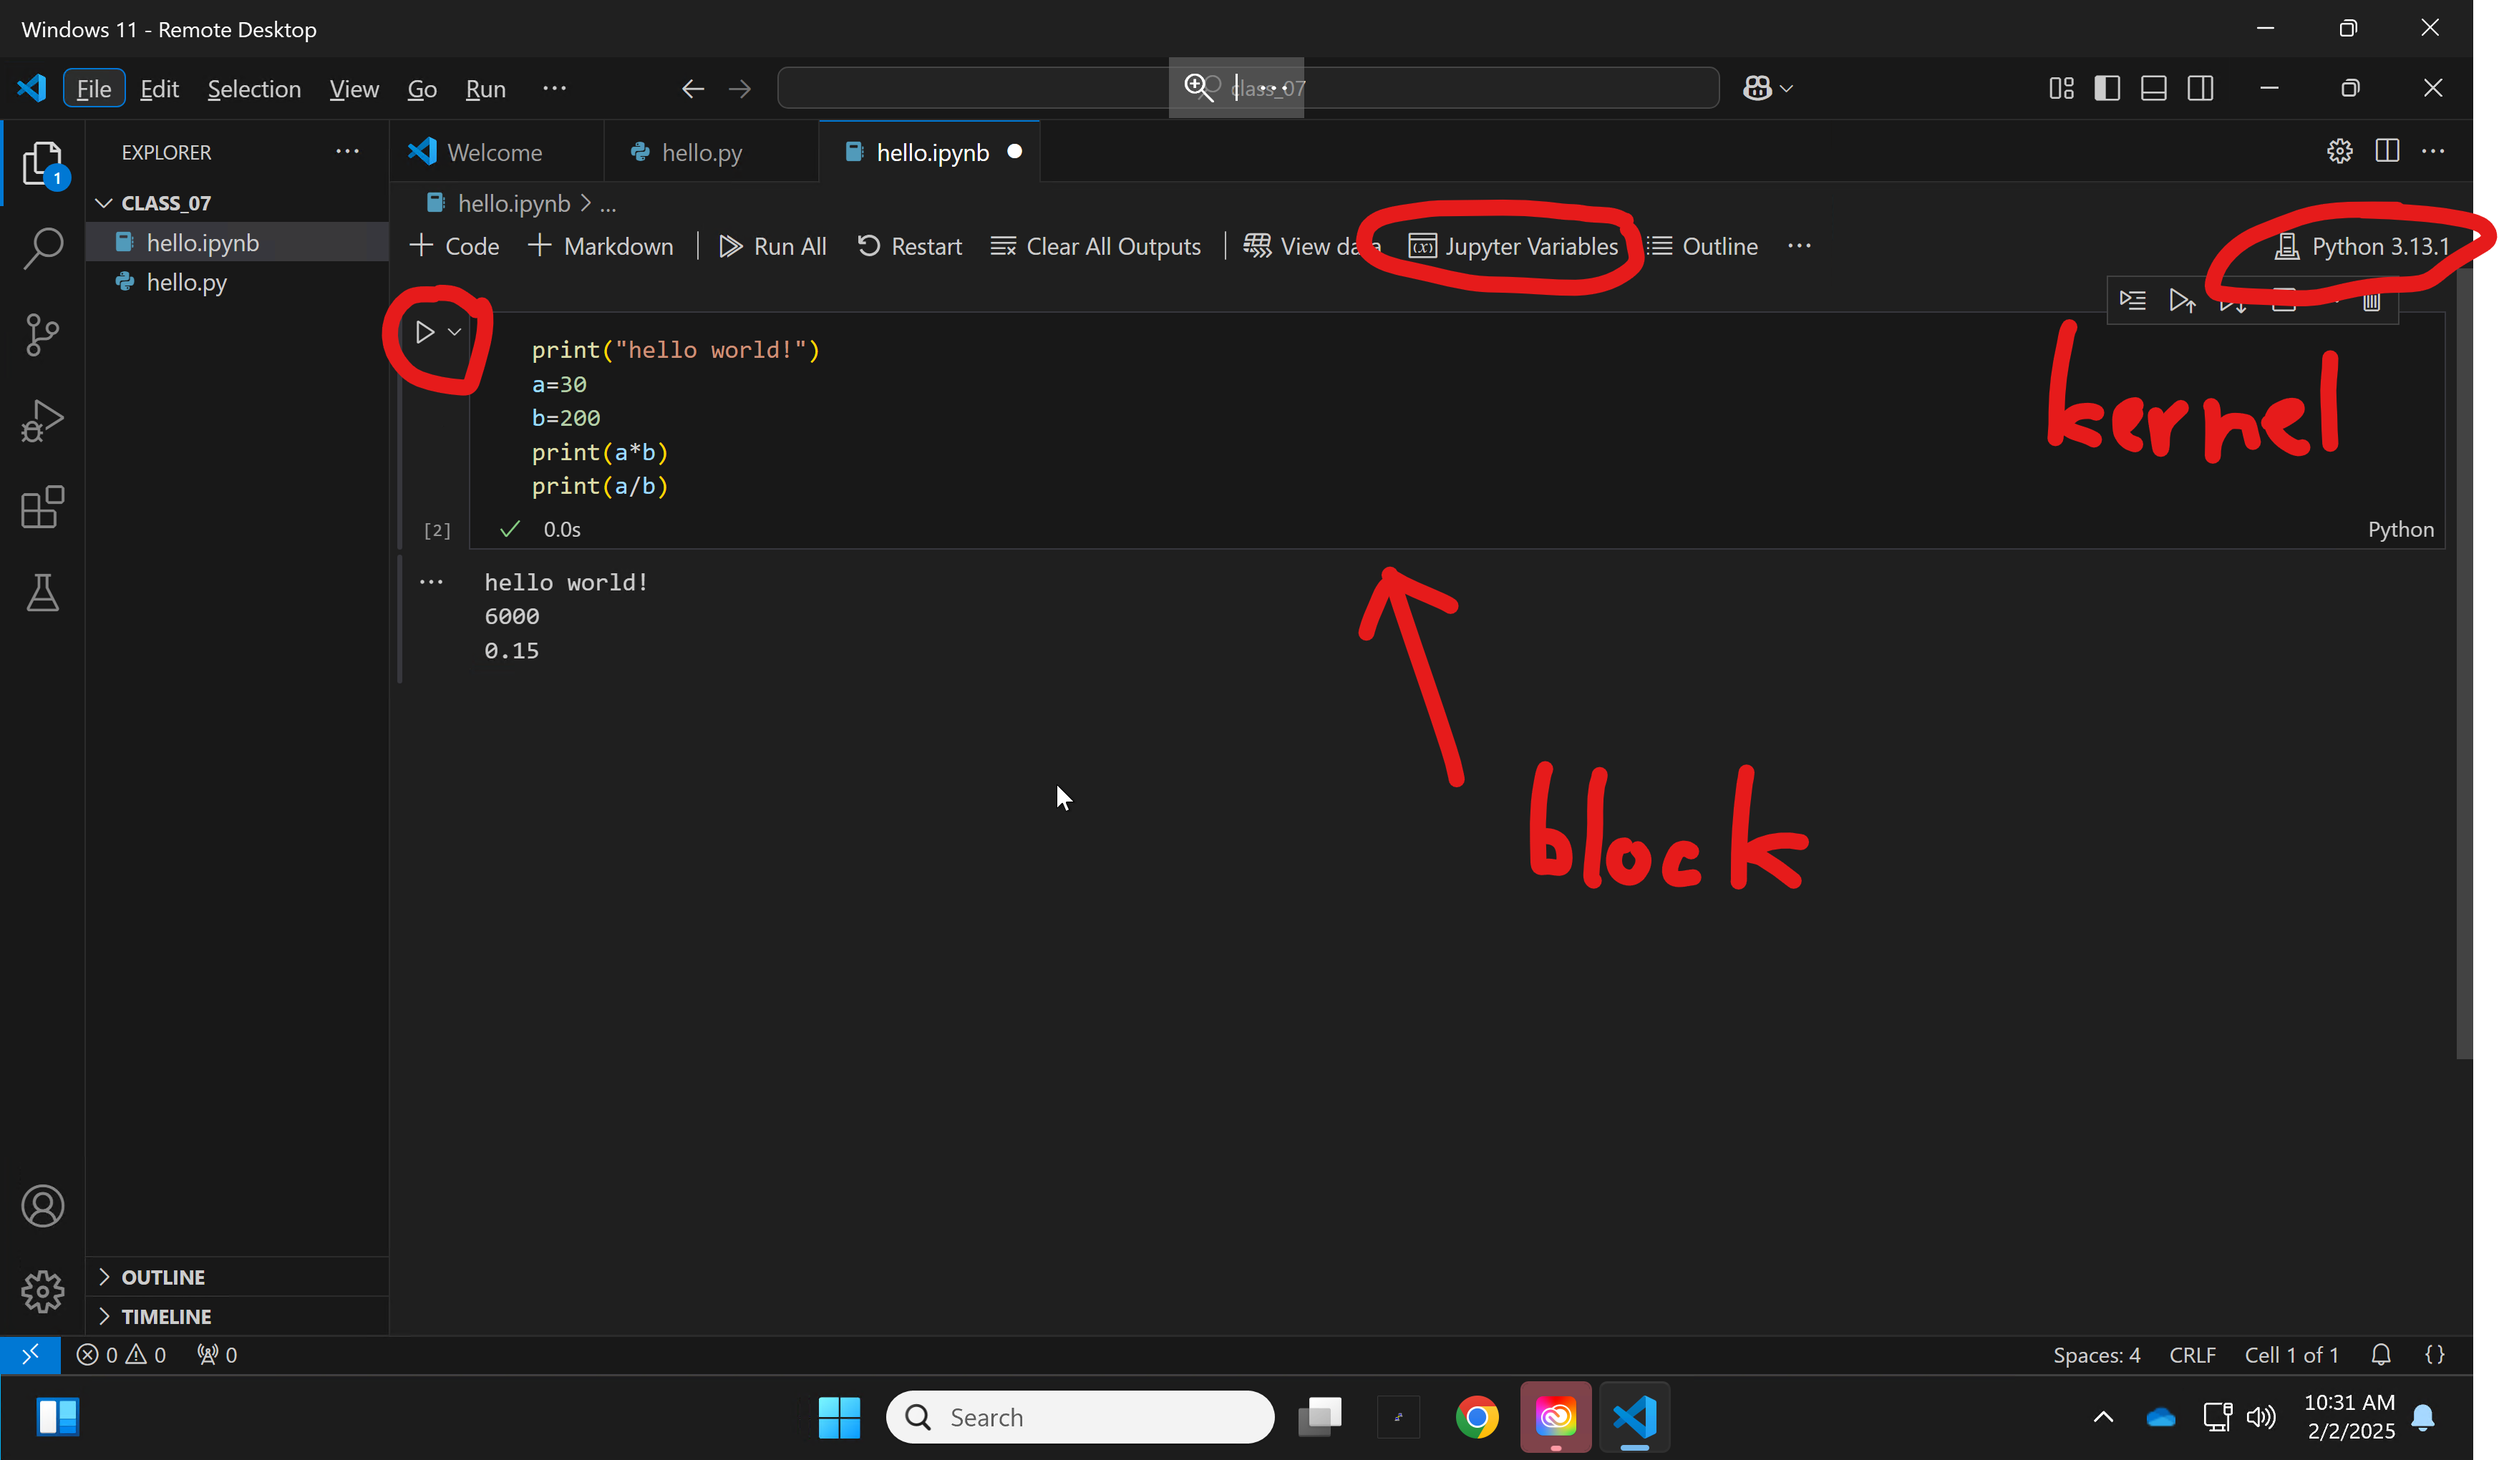
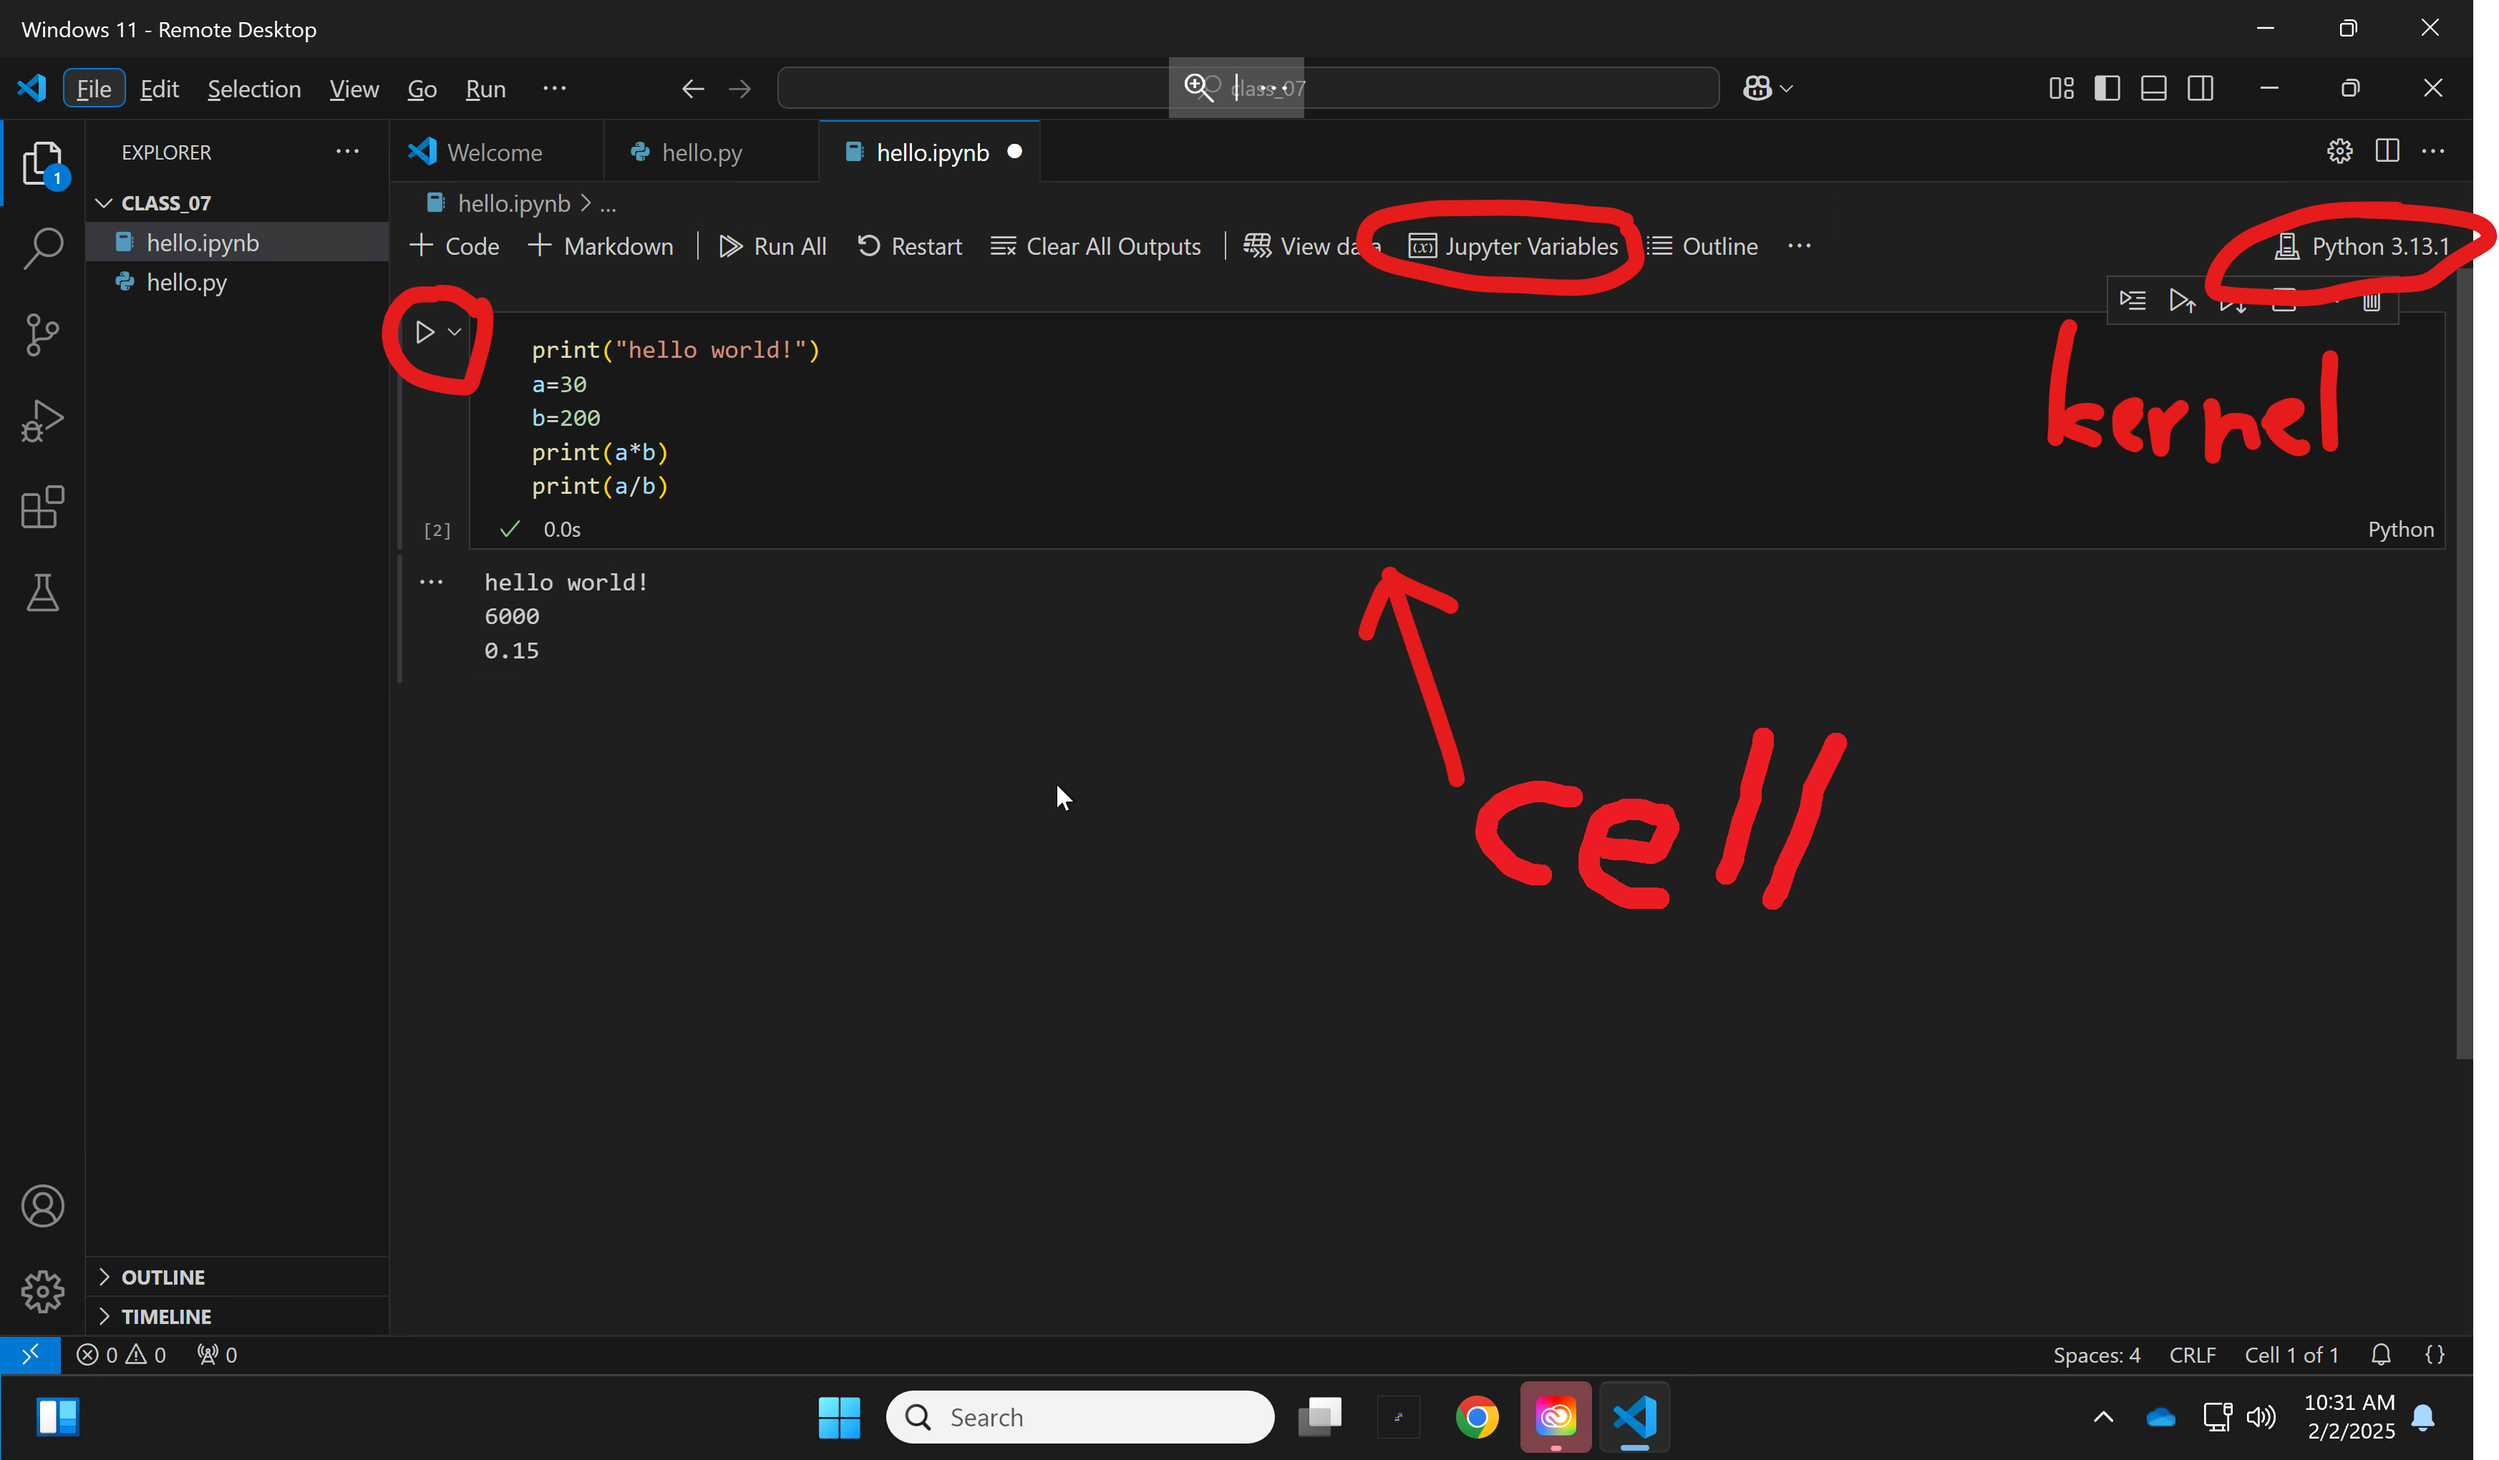
update image 3

Changed region(s): [[0.5932, 0.4941, 0.7494, 0.6176]]

diff --git a/Class_07-Python_intro/README.md b/Class_07-Python_intro/README.md
@@ -104,7 +104,7 @@ print(a/b)
 
 ## III. Jupyter notebooks
 
-1. Another option to write python is using Jupyter notebooks. This is similar to a text file, but lines of code can be written in block, executed, and the result displayed in line before the next block. See some examples [here](https://jupyter.org/try-jupyter/notebooks/?path=notebooks/Intro.ipynb).
+1. Another option to write python is using Jupyter notebooks. This is similar to a text file, but lines of code can be written in cells, executed, and the result displayed in line before the next cell. See some examples [here](https://jupyter.org/try-jupyter/notebooks/?path=notebooks/Intro.ipynb).
 
 2. Let's start a new jupyter notebook.  Go to _file_ and select _New File..._, then choose the _Jupyter Notebook_ option. Select python 3.13 when prompted.
 
@@ -116,7 +116,7 @@ print(a/b)
 
 <img src="./images/jupyter_03.png" width=450>
 
-4. Your window should contain a single cell. Place the same code from the last two exercises in the cell. Run the code using the "play" button on the upper left side of the block. You should see output! Notice that you can also have a look at your variables by hitting the _Jupyter Variables_ button on the top.
+4. Your window should contain a single cell. Place the same code from the last two exercises in the cell. Run the code using the "play" button on the upper left side of the cell. You should see output! Notice that you can also have a look at your variables by hitting the _Jupyter Variables_ button on the top.
 
 ```python
 print("Hello world!")
@@ -128,7 +128,7 @@ print(a/b)
 
 <img src="./images/jupyter_04.png" width=450>
 
-5. We can now add another block by pressing the _+ Code_ button on the left of the top toolbar, and then write more code in the next block!
+5. We can now add another cell by pressing the _+ Code_ button on the left of the top toolbar, and then write more code in the next cell!
 
 6. Jupyter notebooks are saved automatically, and can hold any number of cells and variables. Anything defined in previous cells will be carried over to the next cell within the same notebook.
 
@@ -157,7 +157,7 @@ variable = value
 
 ## I. Number variables
 
-1. Floating point (anything with a decimal). Also called _float_. Try putting the following in your notebook block and running it. We define a variable called _myVar_ and assign a non-integer number to that variable. We then _pass_ the variable into the function ```type```, which should tell us what its variable type is. **Note that comments in python start with ```#```, and can be placed anywhere in the block**
+1. Floating point (anything with a decimal). Also called _float_. Try putting the following in your notebook cell and running it. We define a variable called _myVar_ and assign a non-integer number to that variable. We then _pass_ the variable into the function ```type```, which should tell us what its variable type is. **Note that comments in python start with ```#```, and can be placed anywhere in the cell**
 
 ```python
 myVar=3.14  # defines var "myVar" as a float
@@ -165,14 +165,14 @@ myVar=3.14  # defines var "myVar" as a float
 type(myVar) 
 ```
 
-2. Integer (exact, non-decimal number). These numbers cannot have decimals. As a result they take up much less space in the computer's memory. Place this code in a new block. Notice that the old value of the variable _myVar_ will be overwritten.
+2. Integer (exact, non-decimal number). These numbers cannot have decimals. As a result they take up much less space in the computer's memory. Place this code in a new cell. Notice that the old value of the variable _myVar_ will be overwritten.
 
 ```python
 myVar=3*10+4
 type(myVar)
 ```
 
-3. In many programming languages, if we try to perform an operation on a integer that will return a float, an error will occur. Python automatically "upgrades" integers to floats when needed. Try the following in a new block:
+3. In many programming languages, if we try to perform an operation on a integer that will return a float, an error will occur. Python automatically "upgrades" integers to floats when needed. Try the following in a new cell:
 
 ```python
 myVar=4
@@ -183,7 +183,7 @@ print(type(myVar))
 
 ## II. String variables
 
-Strings - any combination of characters, symbols, and numbers. Notice that if we want to assign characters to a variable, we will need to use either single or double quotation marks - otherwise python will intepret our string as a variable name. Try the following in a new block:
+Strings - any combination of characters, symbols, and numbers. Notice that if we want to assign characters to a variable, we will need to use either single or double quotation marks - otherwise python will intepret our string as a variable name. Try the following in a new cell:
 
 ```python
 myString='this is a string with 2 numbers: 4 and 6'
@@ -194,7 +194,7 @@ print(type(myString))
 
 Lists can hold any mix of data types (including other lists) in an indexed way - in other words it is a variable that can contain multiple, indexed values. 
 
-1. We can create lists in several ways. Start a new block and try the following:
+1. We can create lists in several ways. Start a new cell and try the following:
 
 ```python
 # We first define a list by assigning variables seperated by commas and contained within square brackers ([]):
@@ -214,7 +214,7 @@ print(blist)
 print(clist)
 ```
 
-3. List variables contains some functions themselves. For example, the ```append``` function is _called_ through the ```blist``` variable. Try it in a new block:
+3. List variables contains some functions themselves. For example, the ```append``` function is _called_ through the ```blist``` variable. Try it in a new cell:
 
 ```python
 blist.append(10)
@@ -222,7 +222,7 @@ blist.append("b")
 print(blist)
 ```
 
-Notice that ```list.append()``` function changes the value of the list permanently! See what happens when you run the block several more times!
+Notice that ```list.append()``` function changes the value of the list permanently! See what happens when you run the cell several more times!
 
 4. You can create a list variable with all the same values using ```*```:
 
@@ -302,7 +302,7 @@ blist.reverse()
 
 2. Note that indentation matters! – python doesn’t care if you indent with tab or with spaces (or how many spaces) but you must be consistent! You can’t use tab once then spaces, or different number of spaces.
 
-3. To set the value of the iterable variable we will use the range command. range is a python command that creates a “range” object that contains sequential integers separated by a step. The format is ```range(start,stop,[step])```, where start is the first integer, stop is the first integer that will **NOT** be included), and step is the step size. (step is optional so it is written in []– if non is provided the default is 1). Start a new block in your notebook and enter the following:
+3. To set the value of the iterable variable we will use the range command. range is a python command that creates a “range” object that contains sequential integers separated by a step. The format is ```range(start,stop,[step])```, where start is the first integer, stop is the first integer that will **NOT** be included), and step is the step size. (step is optional so it is written in []– if non is provided the default is 1). Start a new cell in your notebook and enter the following:
 
 ```python
 for i in range(0,100): 
@@ -312,7 +312,7 @@ for i in range(0,100):
 
 ## II. "If" conditionals
 
-If statements are similar to bash but use indentation instead of then/fi to denote the commands to be included in the loop and do not require parentheses around condition. In a new block, insert the following. Pay attention to indentation!
+If statements are similar to bash but use indentation instead of then/fi to denote the commands to be included in the loop and do not require parentheses around condition. In a new cell, insert the following. Pay attention to indentation!
 
 ```python
 q=[1,2,2,3,3,4,7]
@@ -330,21 +330,21 @@ Libraries of useful functions are organized into modules that are imported into 
 
 1. Some libraries come built in with vanilla python. However, they still must be imported. This is because storing a library's functions takes up memory while running your script. Using only required libraries (or even only specific functions of required libraries) will reduce memory usage, making your script faster and more efficient.
 
-2. The ```import``` command loads in an entire library. To use a function from that library you will need to call the library after this import. In a new block write:
+2. The ```import``` command loads in an entire library. To use a function from that library you will need to call the library after this import. In a new cell write:
 
 ```python
 import math
 math.sqrt(10)
 ```
 
-2. The ```from``` command loads just the specified functions. If you call functions in this way, you can use them directly from the main variable space. In a new block, write:
+2. The ```from``` command loads just the specified functions. If you call functions in this way, you can use them directly from the main variable space. In a new cell, write:
 
 ```python
 from math import sqrt
 sqrt(10)
 ```
 
-3. A useful function is ```choice()``` from the ```random``` library. ```choice()``` returns one value from a list selected randomly. In a new block, write:
+3. A useful function is ```choice()``` from the ```random``` library. ```choice()``` returns one value from a list selected randomly. In a new cell, write:
 
 ```python
 from random import choice
